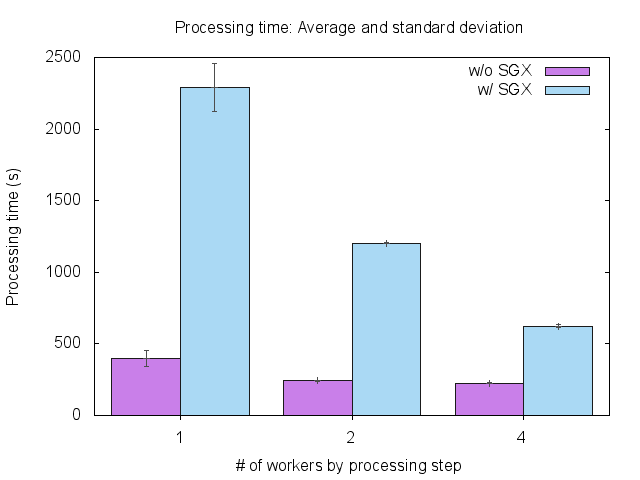
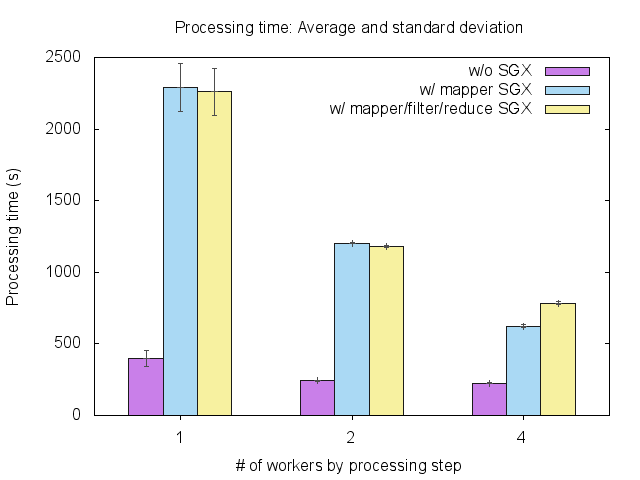
add results on scalability with full sgx XP

diff --git a/experiment/results/2017_march/scalability/README.md b/experiment/results/2017_march/scalability/README.md
@@ -60,7 +60,7 @@ Datas:
 * standard deviation (s)
 
 
-## Secure processing
+## Secure mapper processing
 
 ### One worker by processing stage
 
@@ -93,6 +93,46 @@ Datas: processing time (s)
 ![schema](outputs/avg_stdev_mappersgx.png)
 
 File: [outputs/avg_stdev_mappersgx.dat](outputs/avg_stdev_mappersgx.dat)
+
+Datas:
+* number of workers by processing stage
+* average processing time (s)
+* standard deviation (s)
+
+
+## Secure mapper/filter/reduce processing
+
+### One worker by processing stage
+
+The mapper is processing inside a trusted SGX enclave using LuaSGX, other workers are processing on a regular Lua machine.
+
+![schema](../images/4_data_1_worker_by_type_fullsgx.png)
+
+Files: [data/results-1-workers-fullsgx.dat](data/results-1-workers-fullsgx.dat)
+
+Datas: processing time (s)
+
+### Two workers by processing stage
+
+![schema](../images/4_data_2_workers_by_type_fullsgx.png)
+
+File: [data/results-2-workers-fullsgx.dat](data/results-2-workers-fullsgx.dat)
+
+Datas: processing time (s)
+
+### Four workers by processing stage
+
+![schema](../images/4_data_4_workers_by_type_fullsgx.png)
+
+File: [data/results-4-workers-fullsgx.dat](data/results-4-workers-fullsgx.dat)
+
+Datas: processing time (s)
+
+### Average and standard deviation
+
+![schema](outputs/avg_stdev_fullsgx.png)
+
+File: [outputs/avg_stdev_fullsgx.dat](outputs/avg_stdev_fullsgx.dat)
 
 Datas:
 * number of workers by processing stage
